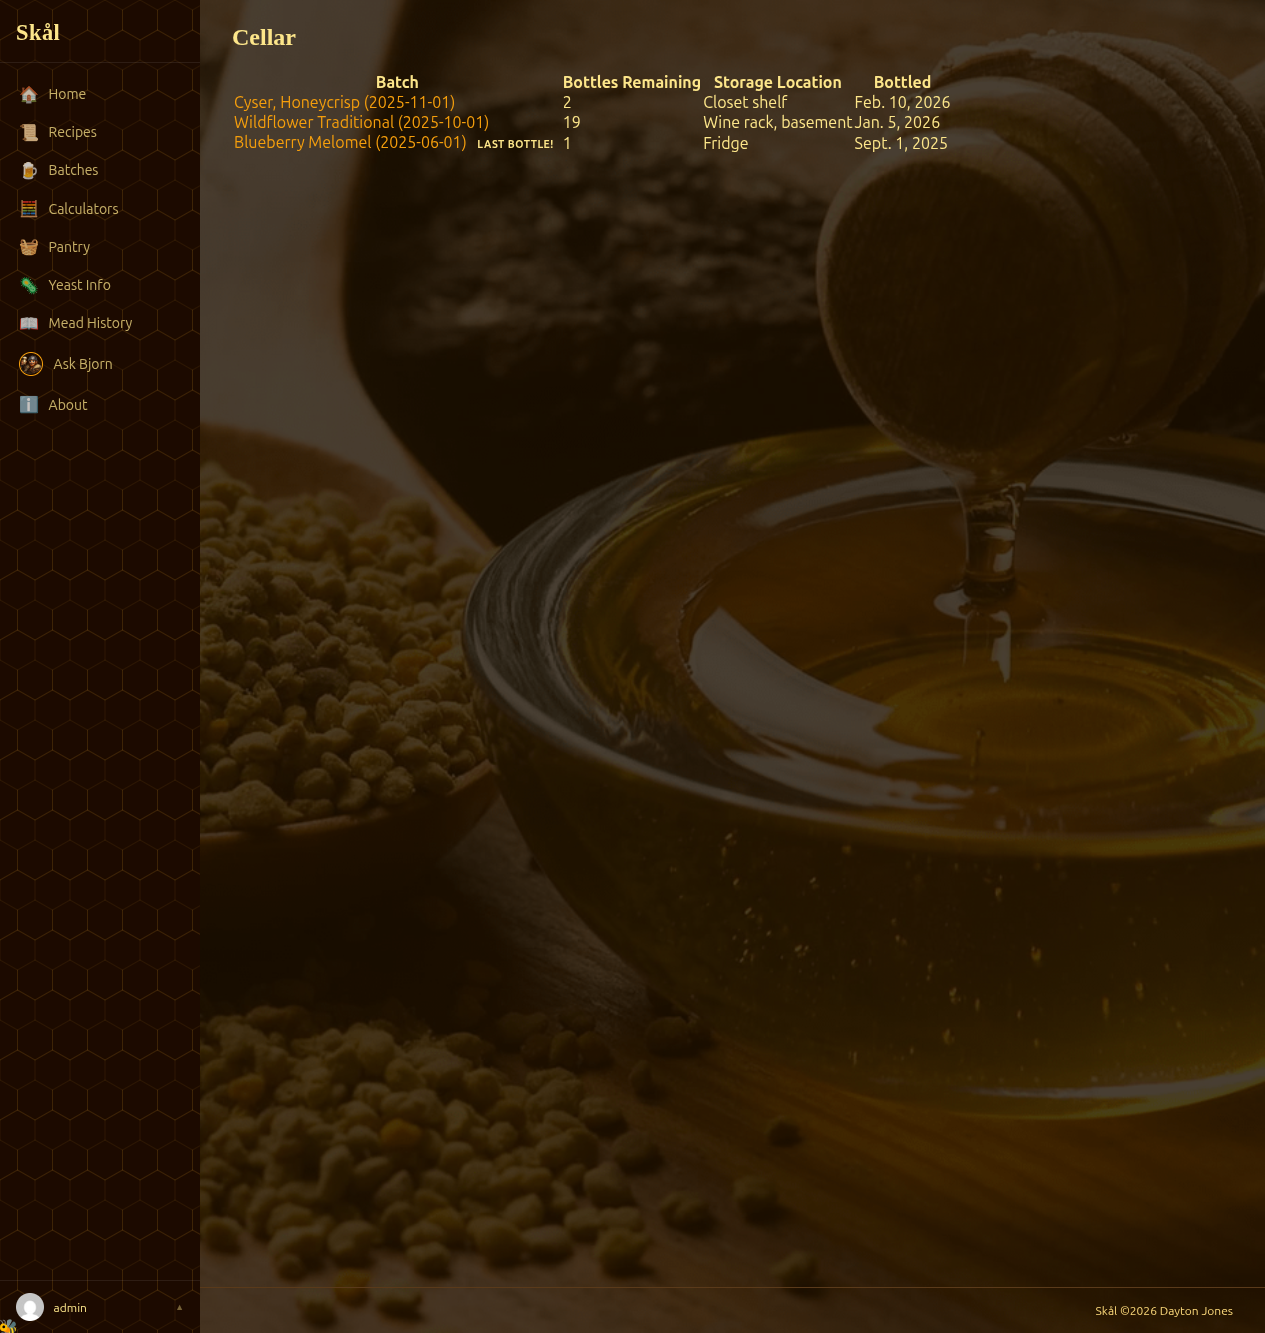
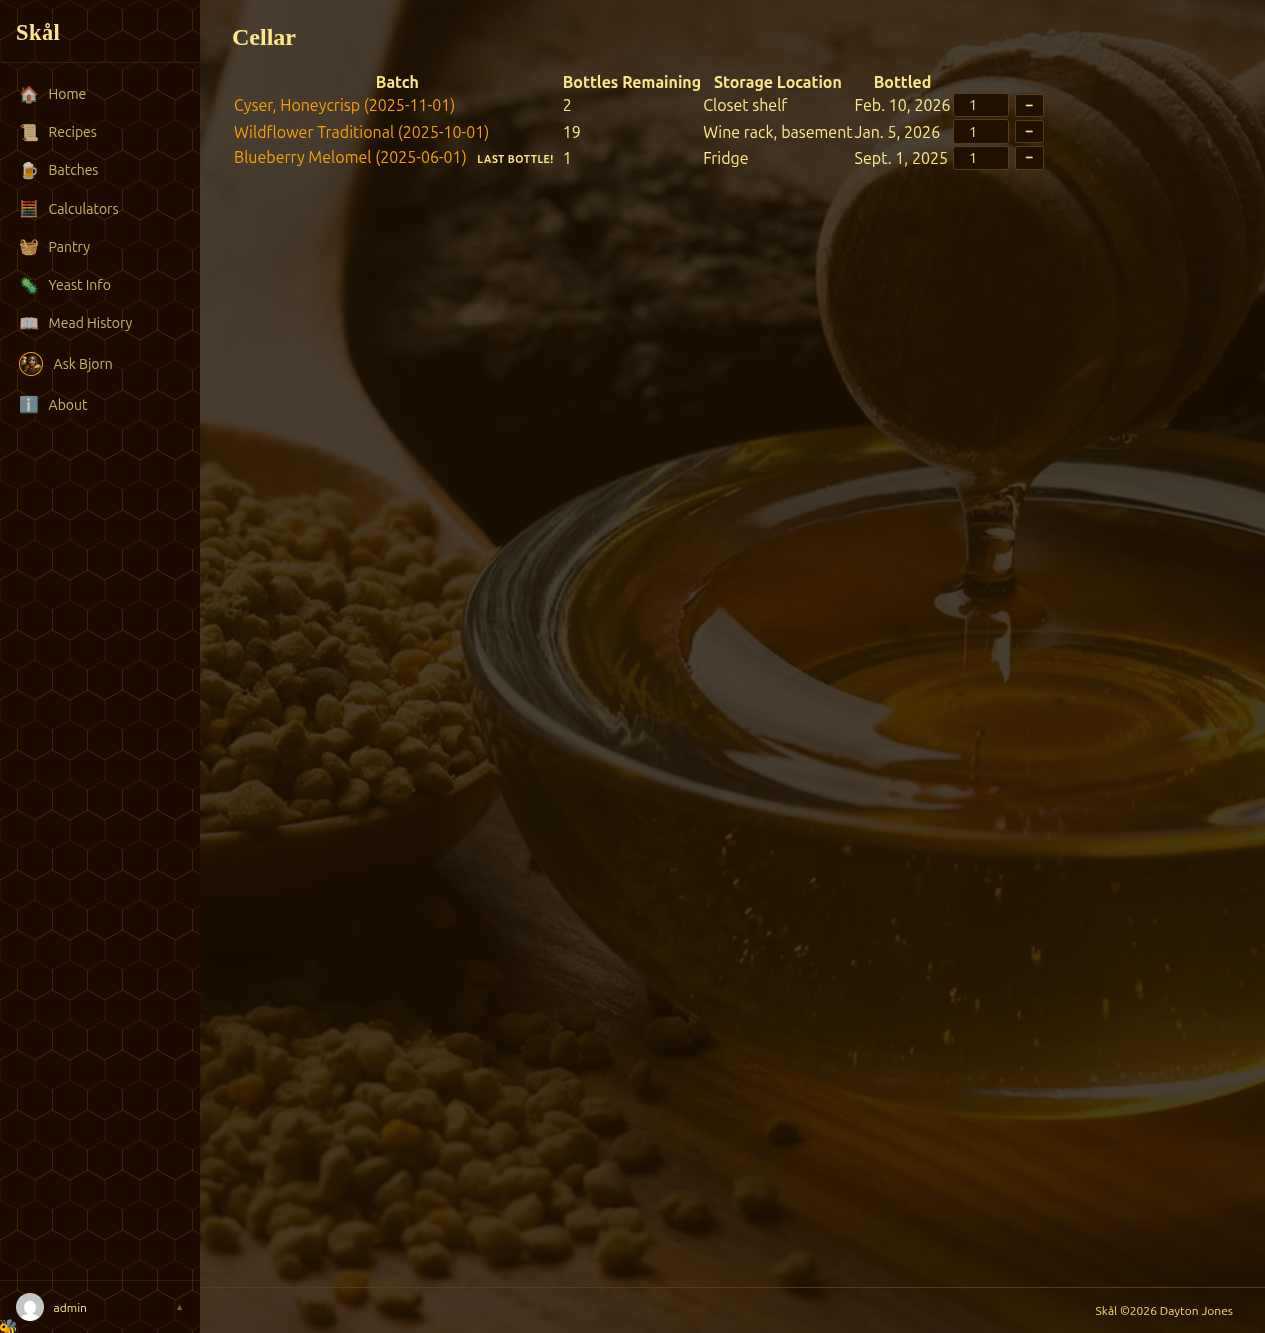
feat: add quick-consume form to cellar view with safe next-redirect
Each cellar row now has an inline quantity input and − button that
POSTs to add_consumption and returns to /cellar/ instead of the
batch detail page. add_consumption validates the next URL before
redirecting.

Changed region(s): [[0.5549, 0.0615, 0.8324, 0.1538], [0.185, 0.0615, 0.4625, 0.123]]

diff --git a/templates/batches/cellar.html b/templates/batches/cellar.html
@@ -16,6 +16,7 @@
         <th>Bottles Remaining</th>
         <th>Storage Location</th>
         <th>Bottled</th>
+        <th></th>
       </tr>
     </thead>
     <tbody>
@@ -39,6 +40,22 @@
         </td>
         <td>
           {% if batch.bottled_date %}{{ batch.bottled_date }}{% else %}&mdash;{% endif %}
+        </td>
+        <td>
+          {% if batch.bottles_remaining %}
+          <form method="post" action="{% url 'batches:add_consumption' batch.pk %}"
+                style="display:flex;align-items:center;gap:0.4rem;">
+            {% csrf_token %}
+            <input type="hidden" name="date" value="{{ today }}">
+            <input type="hidden" name="next" value="/cellar/">
+            <input type="number" name="quantity" value="1" min="1"
+                   {% if batch.bottles_remaining %}max="{{ batch.bottles_remaining }}"{% endif %}
+                   style="width:3.5rem;padding:0.2rem 0.4rem;text-align:center;">
+            <button type="submit" class="btn btn-secondary"
+                    title="Log consumed bottles and stay on cellar page"
+                    style="padding:0.2rem 0.6rem;">−</button>
+          </form>
+          {% endif %}
         </td>
       </tr>
       {% endfor %}

diff --git a/apps/batches/views.py b/apps/batches/views.py
@@ -340,11 +340,16 @@ class CellarView(LoginRequiredMixin, ListView):
 
 @login_required
 def add_consumption(request, pk):
+    from django.utils.http import url_has_allowed_host_and_scheme
     batch = get_object_or_404(Batch, pk=pk, user=request.user)
+    next_url = None
     if request.method == 'POST':
         date_str = request.POST.get('date', '').strip()
         qty_str  = request.POST.get('quantity', '').strip()
         notes    = request.POST.get('notes', '').strip()
+        raw_next = request.POST.get('next', '')
+        if raw_next and url_has_allowed_host_and_scheme(raw_next, allowed_hosts={request.get_host()}):
+            next_url = raw_next
         try:
             quantity = int(qty_str)
             if quantity <= 0:
@@ -352,8 +357,8 @@ def add_consumption(request, pk):
             consume_date = date.fromisoformat(date_str)
         except (ValueError, TypeError):
             messages.error(request, 'Invalid consumption data. Please check the date and quantity.')
-            return redirect('batches:detail', pk=pk)
+            return redirect(next_url or reverse_lazy('batches:detail', kwargs={'pk': pk}))
         BottleConsumption.objects.create(batch=batch, date=consume_date, quantity=quantity, notes=notes)
         messages.success(request, f'Logged {quantity} bottle(s) consumed.')
-    return redirect('batches:detail', pk=pk)
+    return redirect(next_url or reverse_lazy('batches:detail', kwargs={'pk': pk}))
 
